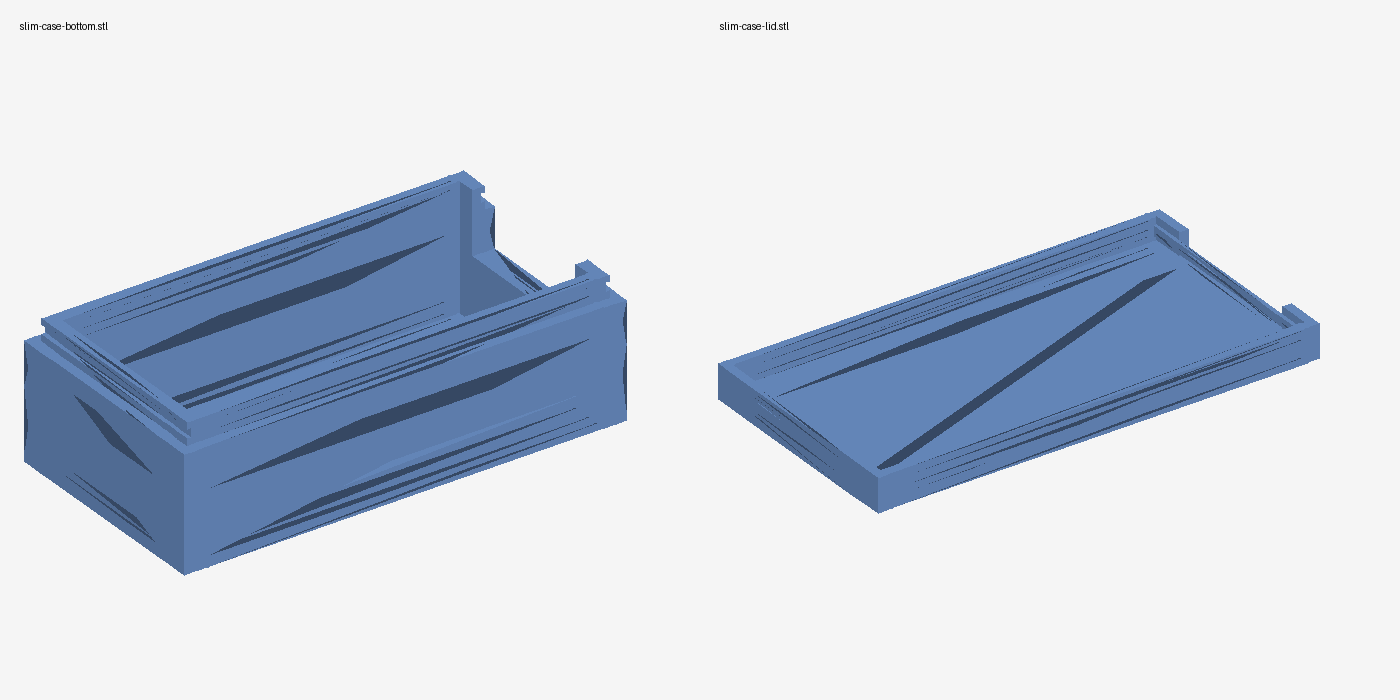
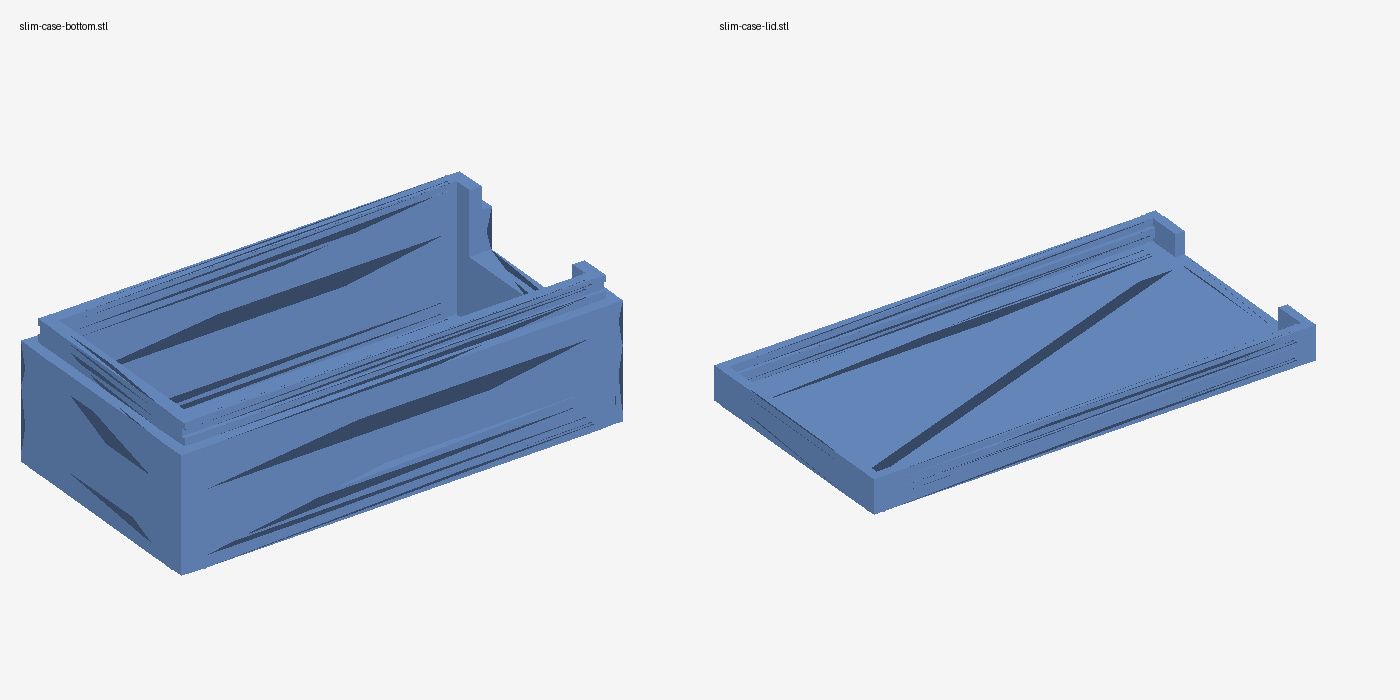
hardware: slim case snap on the long sides, no ridge sliver over the USB opening

diff --git a/hardware/slimcase/slimcase.py b/hardware/slimcase/slimcase.py
@@ -66,8 +66,8 @@ def bottom():
     r = REBATE_D + FIT                                                                                  # rebate for the lid skirt, all around
     ops += [(-1, box(-1, r, -1, OUT_W + 1, BOX_H - REBATE_H, BOX_H + 1)), (-1, box(OUT_L - r, OUT_L + 1, -1, OUT_W + 1, BOX_H - REBATE_H, BOX_H + 1)),
             (-1, box(-1, OUT_L + 1, -1, r, BOX_H - REBATE_H, BOX_H + 1)), (-1, box(-1, OUT_L + 1, OUT_W - r, OUT_W + 1, BOX_H - REBATE_H, BOX_H + 1))]
-    gz0 = BOX_H - REBATE_H + 1.0                                                                       # snap groove on the long sides
-    ops += [(-1, box(-1, r + RIDGE, -1, OUT_W + 1, gz0, gz0 + RIDGE_H)), (-1, box(OUT_L - r - RIDGE, OUT_L + 1, -1, OUT_W + 1, gz0, gz0 + RIDGE_H))]
+    gz0 = BOX_H - REBATE_H + 1.0                                                                       # snap groove on the long sides (y = const)
+    ops += [(-1, box(-1, OUT_L + 1, -1, r + RIDGE, gz0, gz0 + RIDGE_H)), (-1, box(-1, OUT_L + 1, OUT_W - r - RIDGE, OUT_W + 1, gz0, gz0 + RIDGE_H))]
     wy0 = OUT_W / 2 - WIN_W / 2                                                                        # USB-end opening (x = OUT_L end)
     ops.append((-1, box(WALL + IN_L - 0.01, OUT_L + 1, wy0, wy0 + WIN_W, FLOOR + WIN_Z0, BOX_H + 1)))
     return mesh(ops)
@@ -79,9 +79,9 @@ def lid():
     ops += [(+1, box(0, s, 0, OUT_W, LID, LID + REBATE_H)), (+1, box(OUT_L - s, OUT_L, 0, OUT_W, LID, LID + REBATE_H)),
             (+1, box(0, OUT_L, 0, s, LID, LID + REBATE_H)), (+1, box(0, OUT_L, OUT_W - s, OUT_W, LID, LID + REBATE_H))]
     rz0 = LID + REBATE_H - 1.0 - RIDGE_H                                                              # ridge matching the groove (skirt tip = z LID+REBATE_H)
-    ops += [(+1, box(s, s + RIDGE, s, OUT_W - s, rz0, rz0 + RIDGE_H)), (+1, box(OUT_L - s - RIDGE, OUT_L - s, s, OUT_W - s, rz0, rz0 + RIDGE_H))]
+    ops += [(+1, box(s, OUT_L - s, s, s + RIDGE, rz0, rz0 + RIDGE_H)), (+1, box(s, OUT_L - s, OUT_W - s - RIDGE, OUT_W - s, rz0, rz0 + RIDGE_H))]
     wy0 = OUT_W / 2 - WIN_W / 2                                                                        # no skirt over the USB opening
-    ops.append((-1, box(OUT_L - s - 0.01, OUT_L + 1, wy0, wy0 + WIN_W, LID, LID + REBATE_H + 1)))
+    ops.append((-1, box(OUT_L - s - RIDGE - 0.01, OUT_L + 1, wy0, wy0 + WIN_W, LID, LID + REBATE_H + 1)))
     return mesh(ops)
 
 if __name__ == '__main__':
